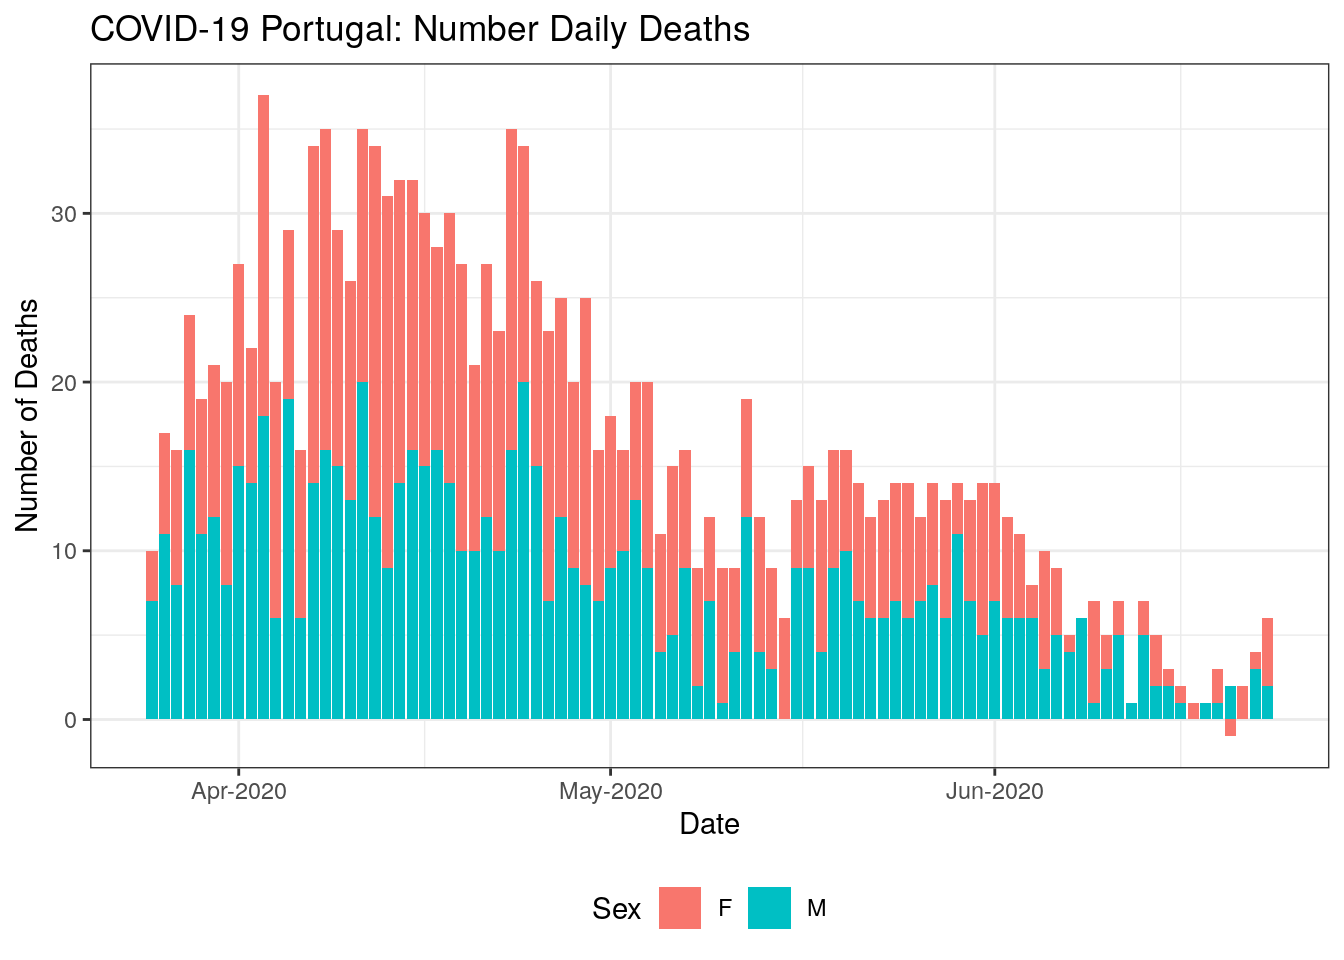
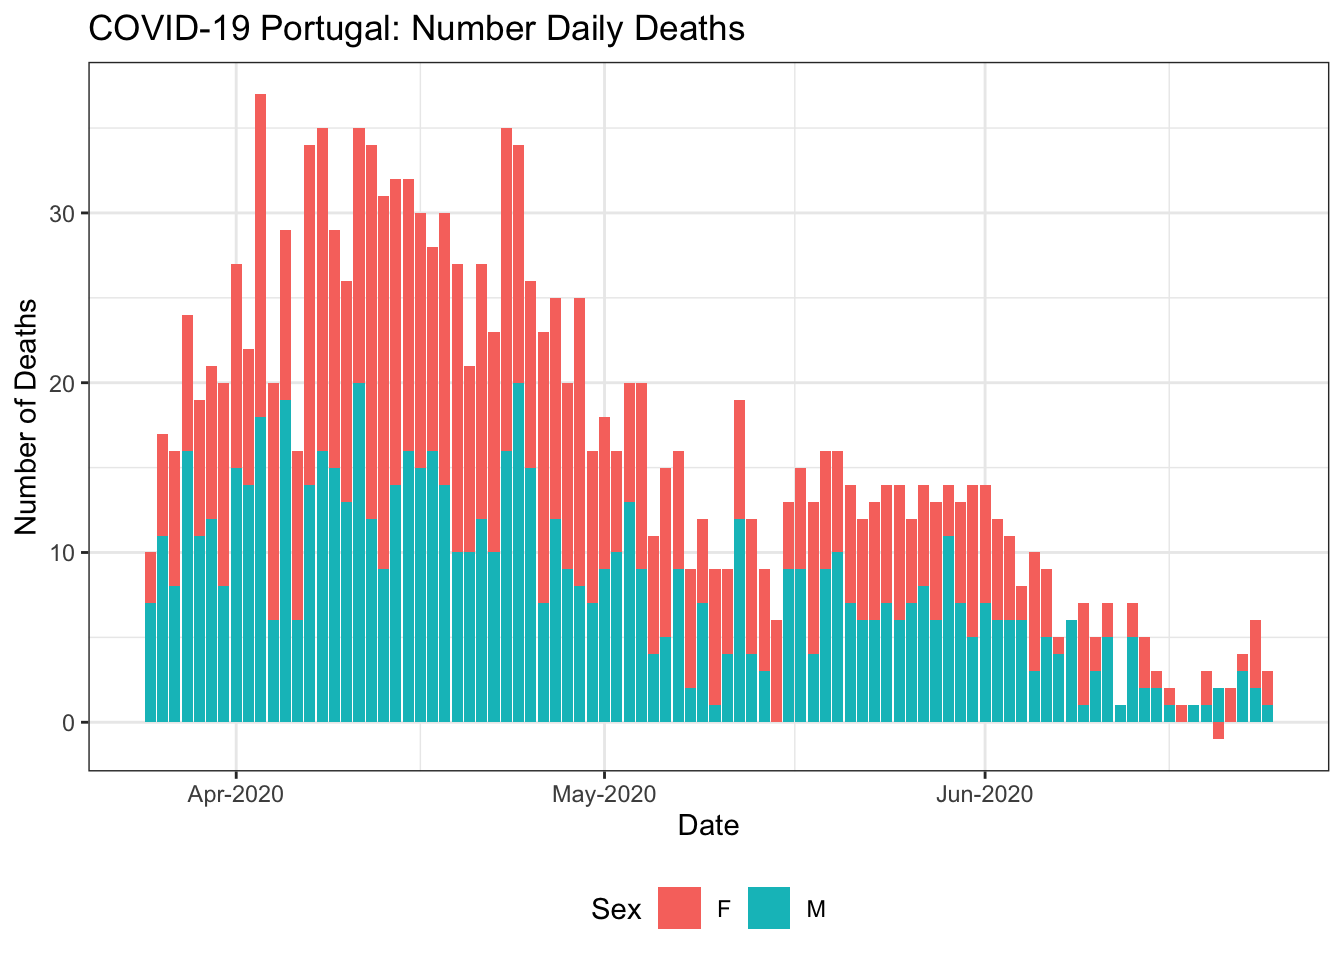
Data Update & Re-build README.Rmd

diff --git a/README.md b/README.md
@@ -1,13 +1,13 @@
 
 # Portuguese COVID-19 Data
 
-**Last updated:** Wed 24 Jun 2020 (13:59:45 WEST \[+0100\])
+**Last updated:** Wed 24 Jun 2020 (15:23:25 UTC \[+0000\])
 
 ## Data Meta Information
 
   - **Start date:** 2020-02-26
-  - **End Date:** 2020-06-23
-  - **Number of days:** 119
+  - **End Date:** 2020-06-24
+  - **Number of days:** 120
 
 ## Source
 
@@ -48,7 +48,7 @@ theme_set(theme_bw())
 # Read in data as a data.frame and data.table object.
 CV <- fread(here("data", "covid19pt_DSSG_Long.csv"))
 str(CV)
-## Classes 'data.table' and 'data.frame':   9996 obs. of  12 variables:
+## Classes 'data.table' and 'data.frame':   10080 obs. of  12 variables:
 ##  $ data       : chr  "2020-02-26" "2020-02-27" "2020-02-28" "2020-02-29" ...
 ##  $ origVars   : chr  "cadeias_transmissao" "cadeias_transmissao" "cadeias_transmissao" "cadeias_transmissao" ...
 ##  $ origType   : chr  "cadeias" "cadeias" "cadeias" "cadeias" ...
@@ -105,7 +105,7 @@ CV[origType=="confirmados" & ageGrp=="" & region!="Portugal"] %>%
     y = "Number of Confirmed Cases",
     colour = "Region")
 ## Warning: Transformation introduced infinite values in continuous y-axis
-## Warning: Removed 103 row(s) containing missing values (geom_path).
+## Warning: Removed 104 row(s) containing missing values (geom_path).
 ```
 
 <img src="README_figs/README-casesbyRegion-1.png" width="672" />
@@ -124,9 +124,9 @@ CV[dayChange<0][
 ##   4: 2020-03-24 confirmados_40_49_f   224        -2
 ##   5: 2020-03-19 confirmados_60_69_f    35       -14
 ##  ---                                               
-## 278: 2020-06-08          vigilancia 28791      -521
-## 279: 2020-06-13          vigilancia 30655      -124
-## 280: 2020-06-17          vigilancia 30289      -521
-## 281: 2020-06-19          vigilancia 29046     -1380
-## 282: 2020-06-23          vigilancia 30248      -708
+## 280: 2020-06-08          vigilancia 28791      -521
+## 281: 2020-06-13          vigilancia 30655      -124
+## 282: 2020-06-17          vigilancia 30289      -521
+## 283: 2020-06-19          vigilancia 29046     -1380
+## 284: 2020-06-23          vigilancia 30248      -708
 ```
